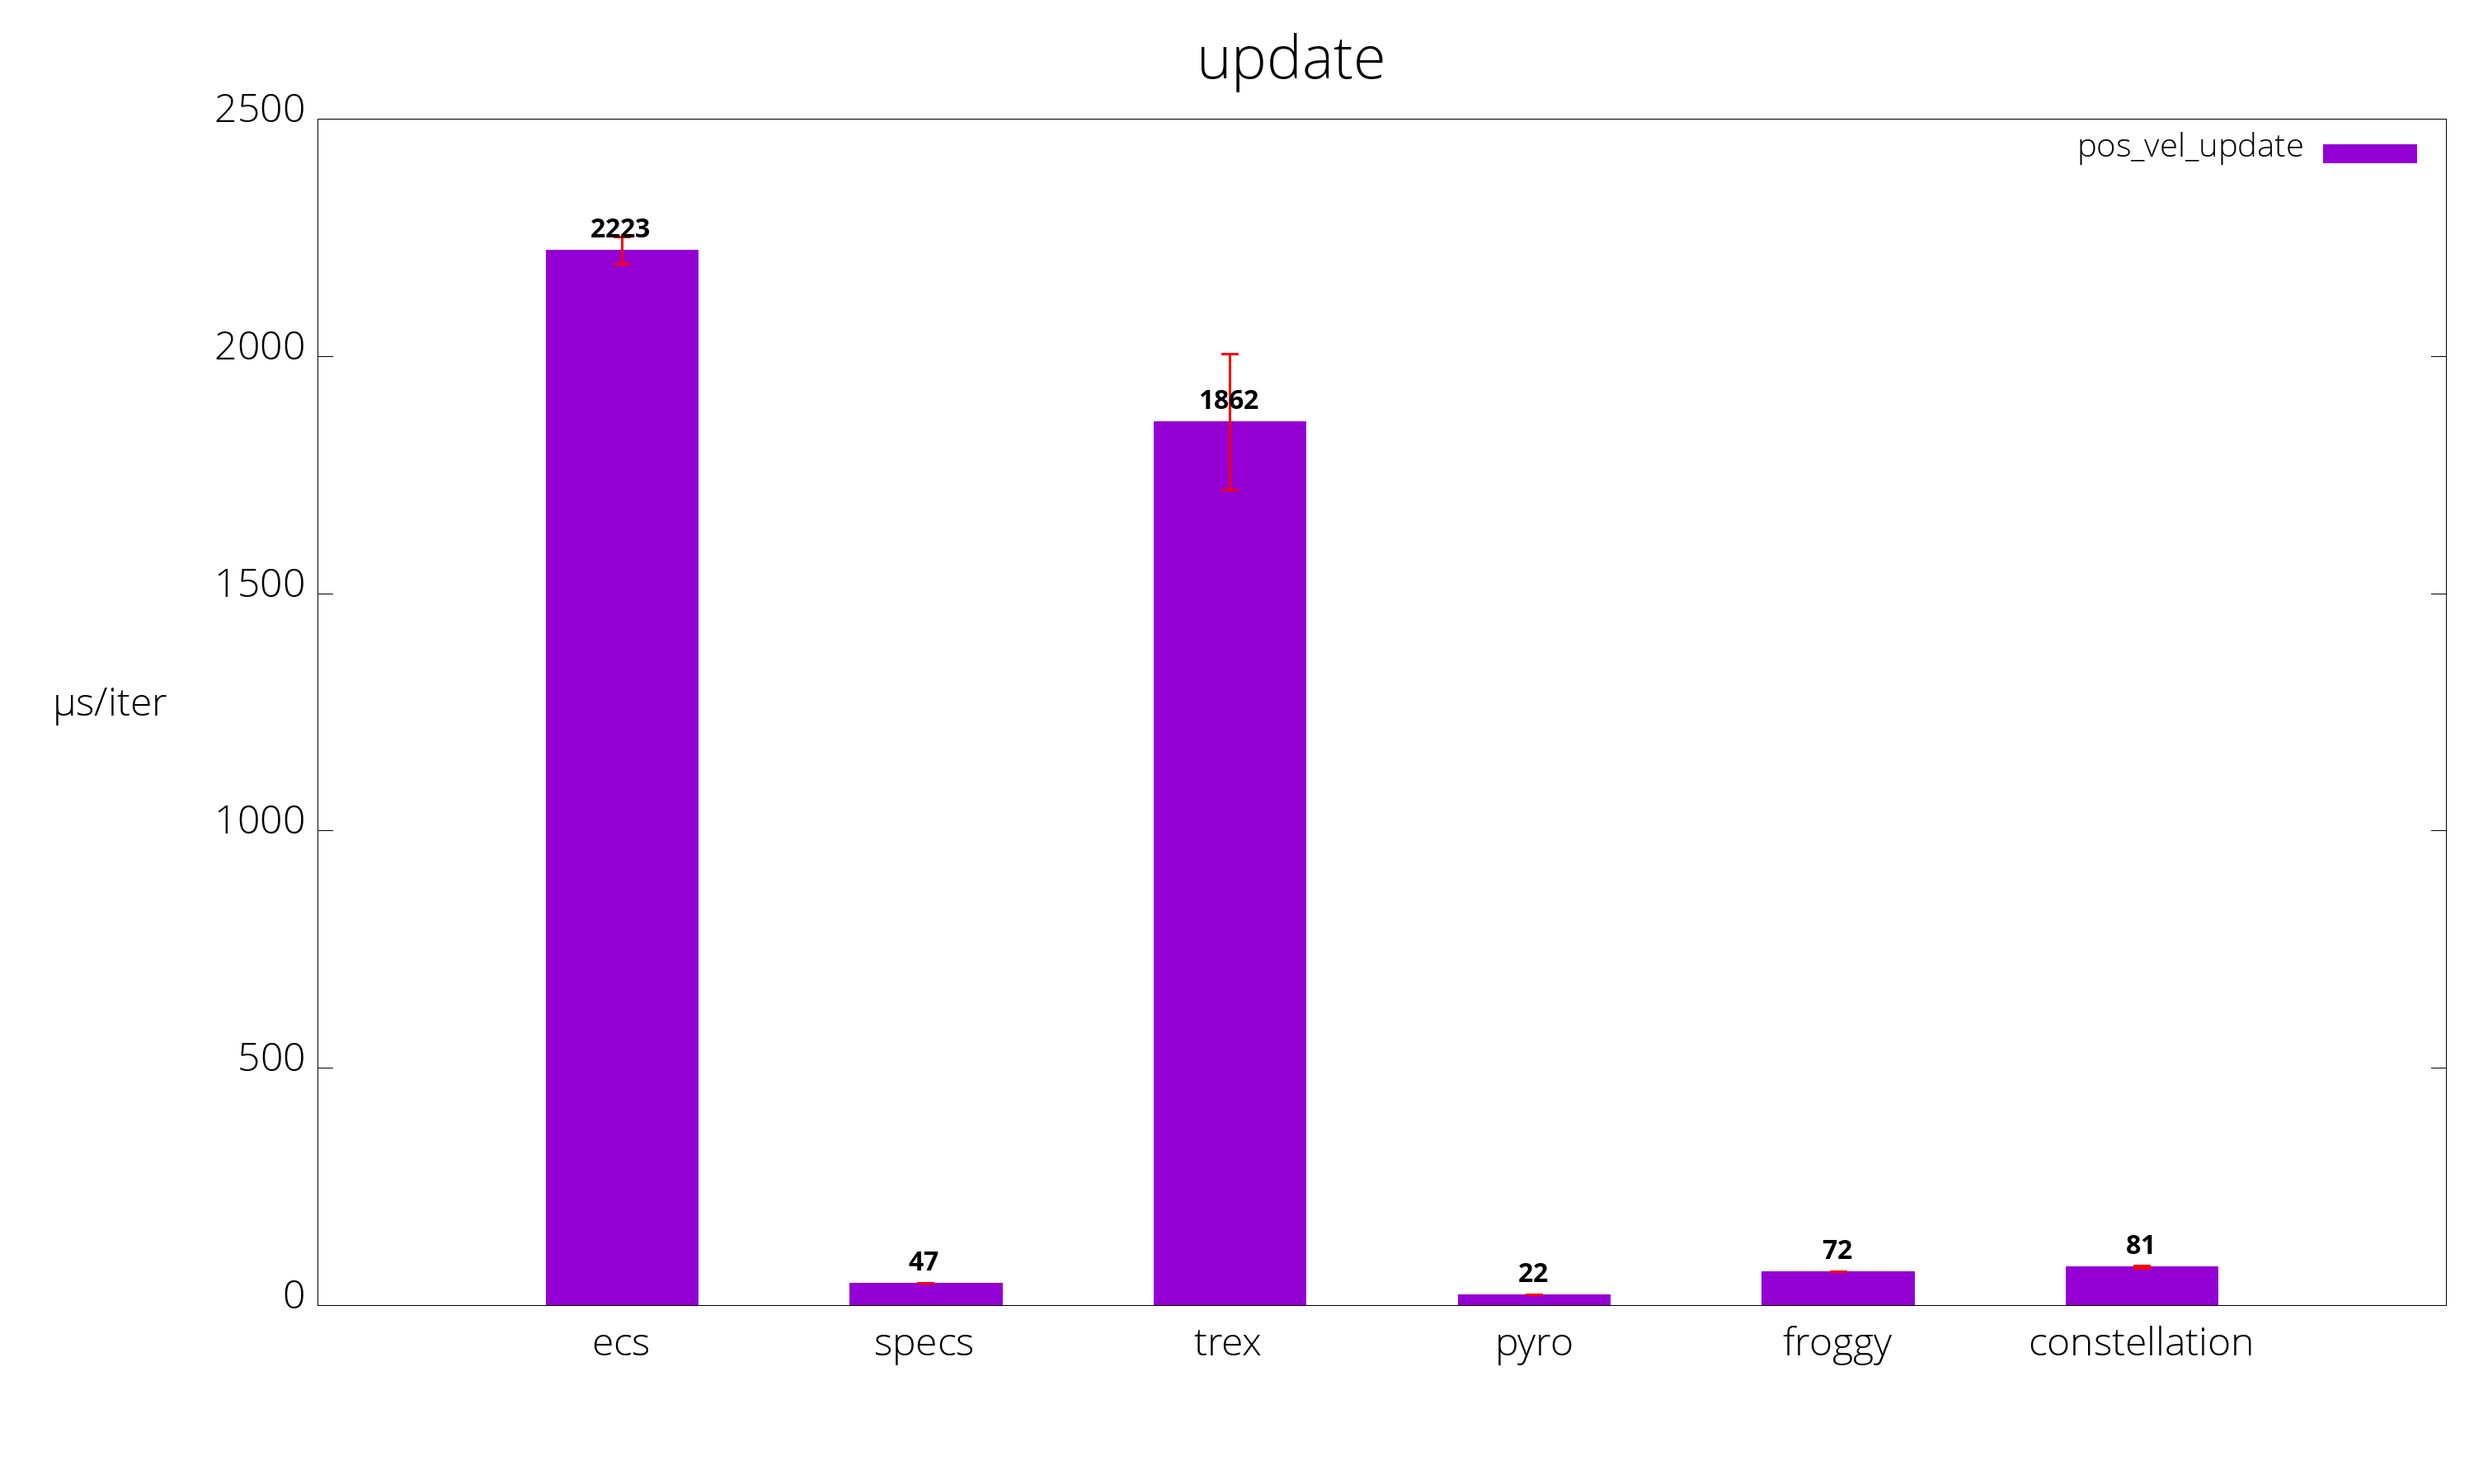
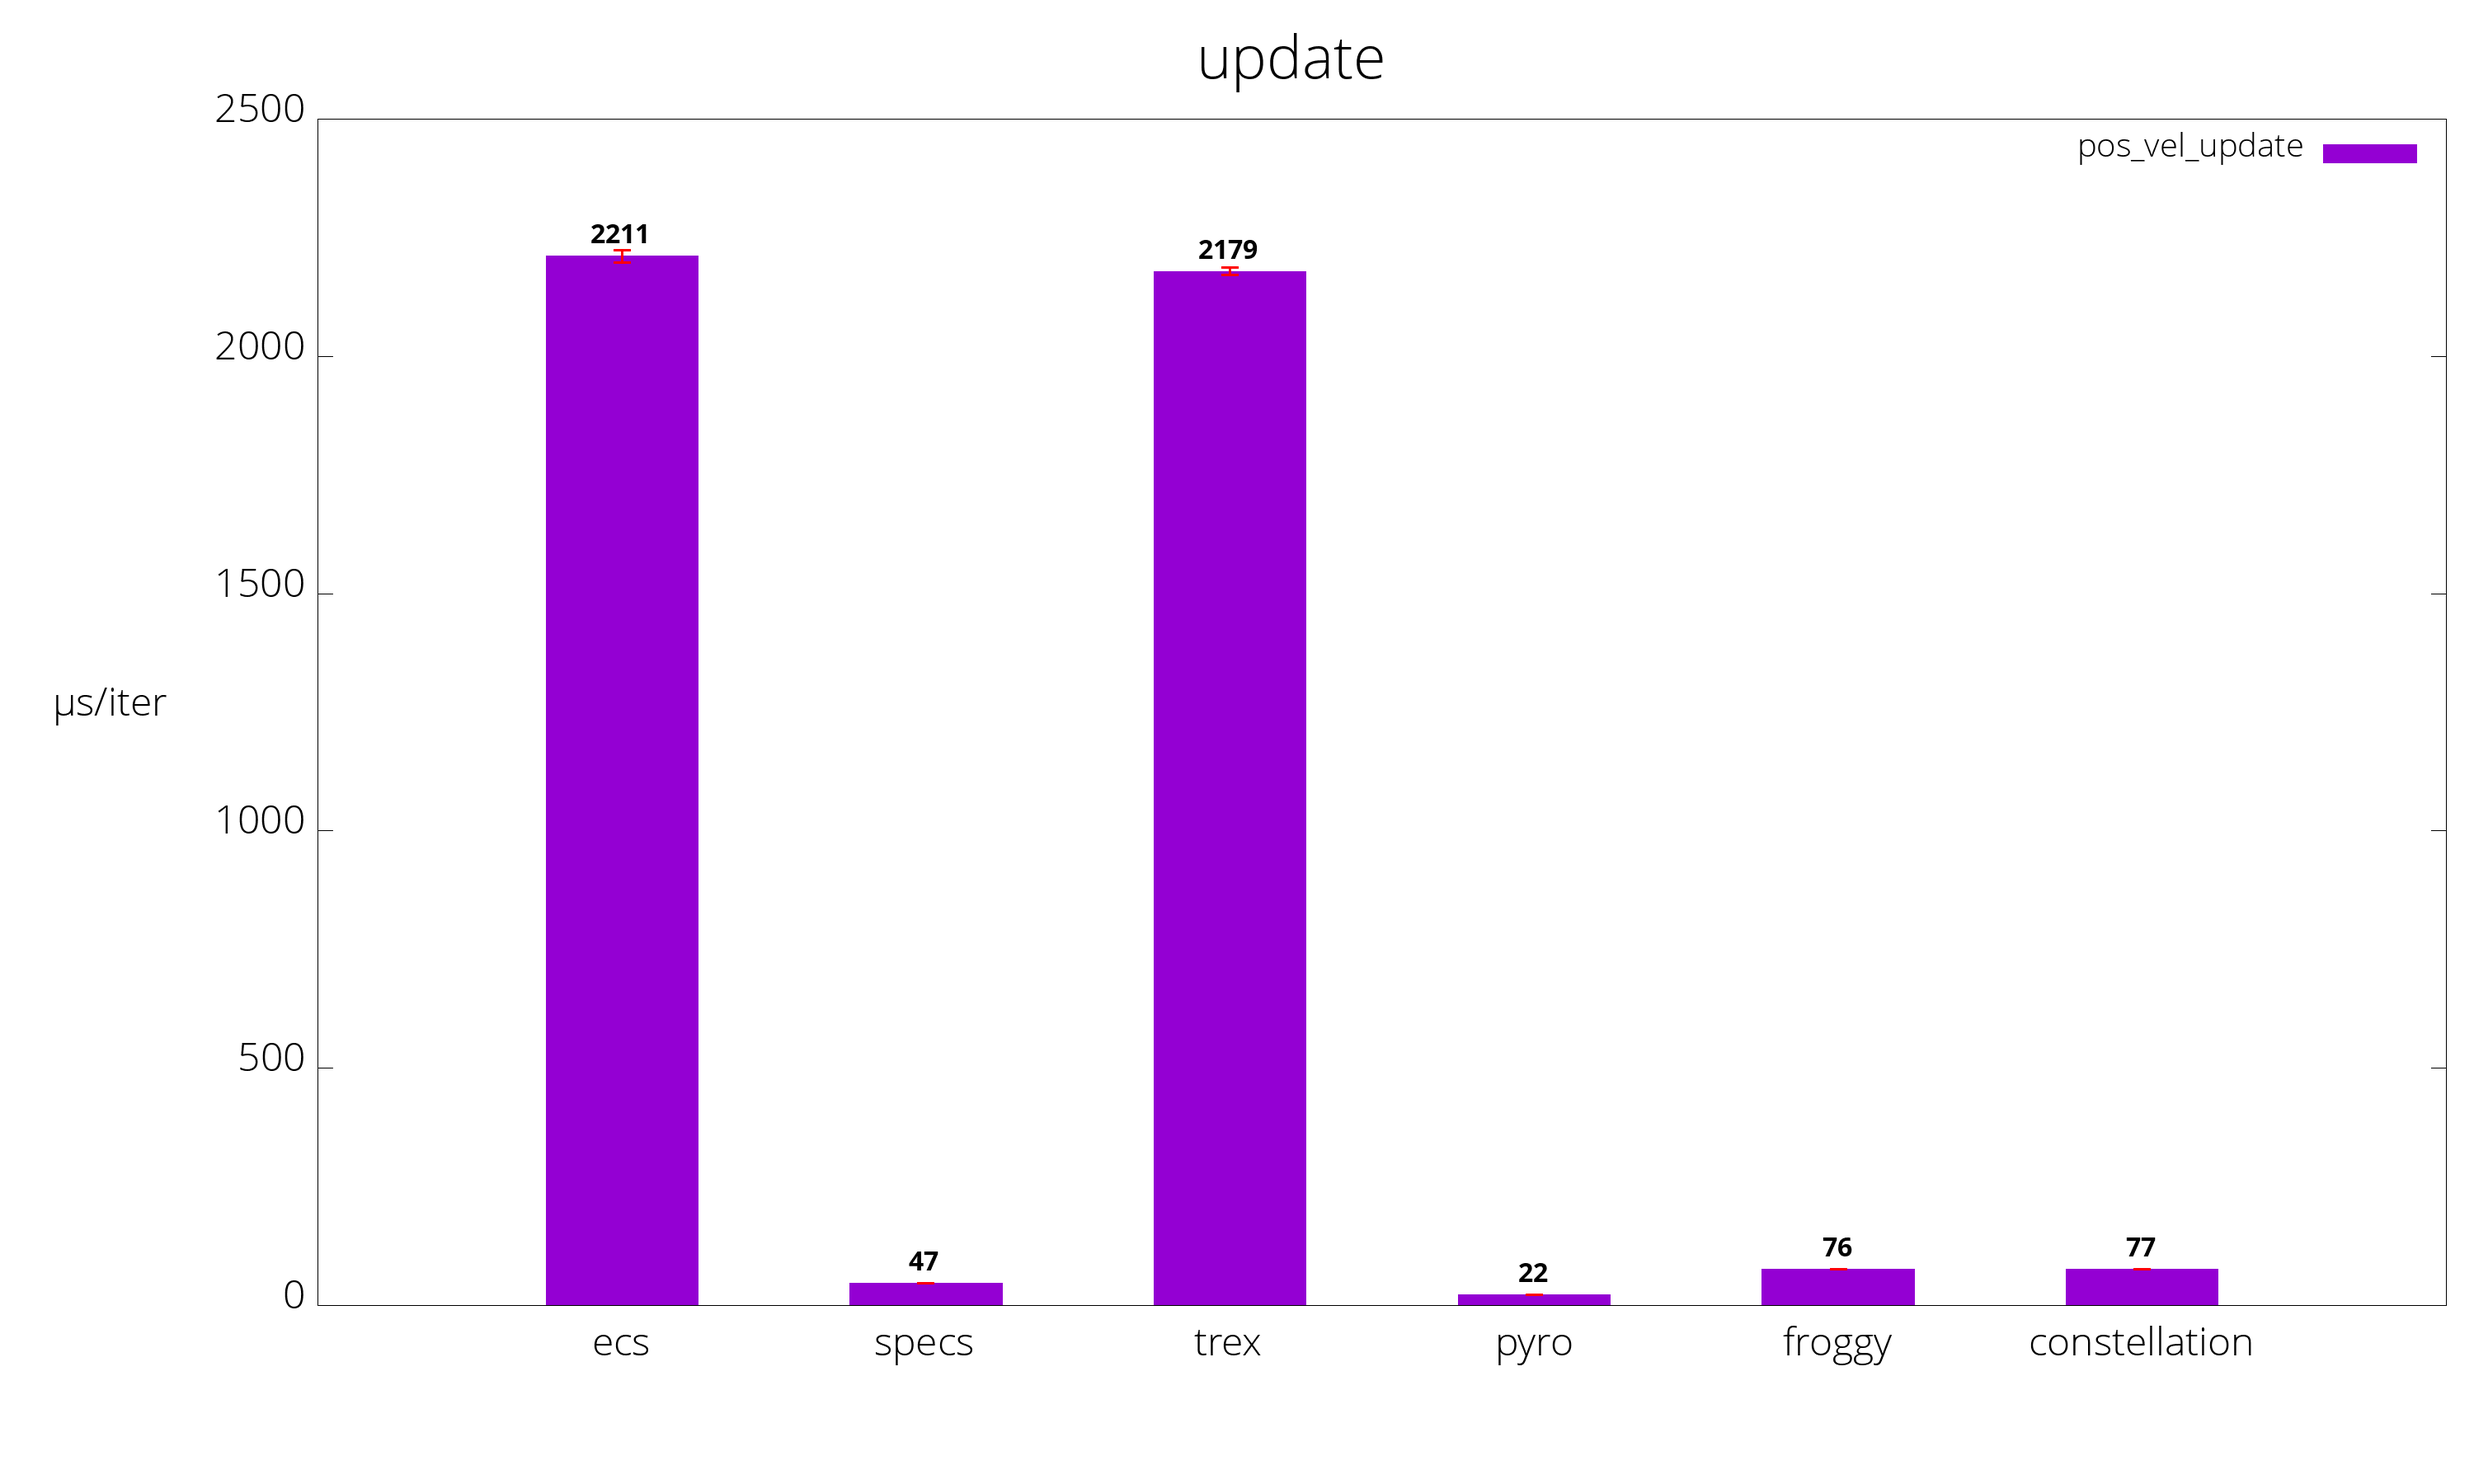
Update

Changed region(s): [[0.465, 0.1556, 0.527, 0.3111], [0.217, 0.1556, 0.279, 0.1867]]

diff --git a/benches/pos_vel_pyro.rs b/benches/pos_vel_pyro.rs
@@ -25,7 +25,6 @@ fn build() -> World {
     let only_pos = (0..N_POS).map(|_| {
         (
             Position { x: 0.0, y: 0.0 },
-            (), // Bogus component because pyro can't add a single component yet
         )
     });
     let pos_vel = (0..N_POS)

diff --git a/README.md b/README.md
@@ -8,11 +8,11 @@ Benchmarks are located in `benches/[bench_name]_[ecs_crate_name].rs`.
  Library         | pos_vel build                 | pos_vel update                 | parallel build                 | parallel update
  --------------- |:-----------------------------:|:------------------------------:|:------------------------------:|:--------------------------------:
  [calx-ecs]      | {pos_vel_build_calx_ecs}      | {pos_vel_update_calx_ecs}      | {parallel_build_calx_ecs}      | {parallel_update_calx_ecs}
- [constellation] | 2,457 µs/iter (+/- 511) | 81 µs/iter (+/- 3) | {parallel_build_constellation} | {parallel_update_constellation}
- [ecs]           | 15,847 µs/iter (+/- 394)           | 2,223 µs/iter (+/- 28)           | {parallel_build_ecs}           | {parallel_update_ecs}
- [froggy]        | 5,221 µs/iter (+/- 89)        | 72 µs/iter (+/- 0)        | {parallel_build_froggy}        | {parallel_update_froggy}
- [specs]         | 3,502 µs/iter (+/- 50)         | 47 µs/iter (+/- 0)         | {parallel_build_specs}         | {parallel_update_specs}
- [trex]          | 11,847 µs/iter (+/- 673)          | 1,862 µs/iter (+/- 143)          | {parallel_build_trex}          | {parallel_update_trex}
+ [constellation] | 2,257 µs/iter (+/- 344) | 77 µs/iter (+/- 0) | {parallel_build_constellation} | {parallel_update_constellation}
+ [ecs]           | 15,876 µs/iter (+/- 279)           | 2,211 µs/iter (+/- 13)           | {parallel_build_ecs}           | {parallel_update_ecs}
+ [froggy]        | 5,376 µs/iter (+/- 117)        | 76 µs/iter (+/- 0)        | {parallel_build_froggy}        | {parallel_update_froggy}
+ [specs]         | 3,359 µs/iter (+/- 191)         | 47 µs/iter (+/- 0)         | {parallel_build_specs}         | {parallel_update_specs}
+ [trex]          | 11,674 µs/iter (+/- 641)          | 2,179 µs/iter (+/- 8)          | {parallel_build_trex}          | {parallel_update_trex}
 
 [calx-ecs]: https://github.com/rsaarelm/calx-ecs
 [constellation]: https://github.com/TomGillen/constellation/
